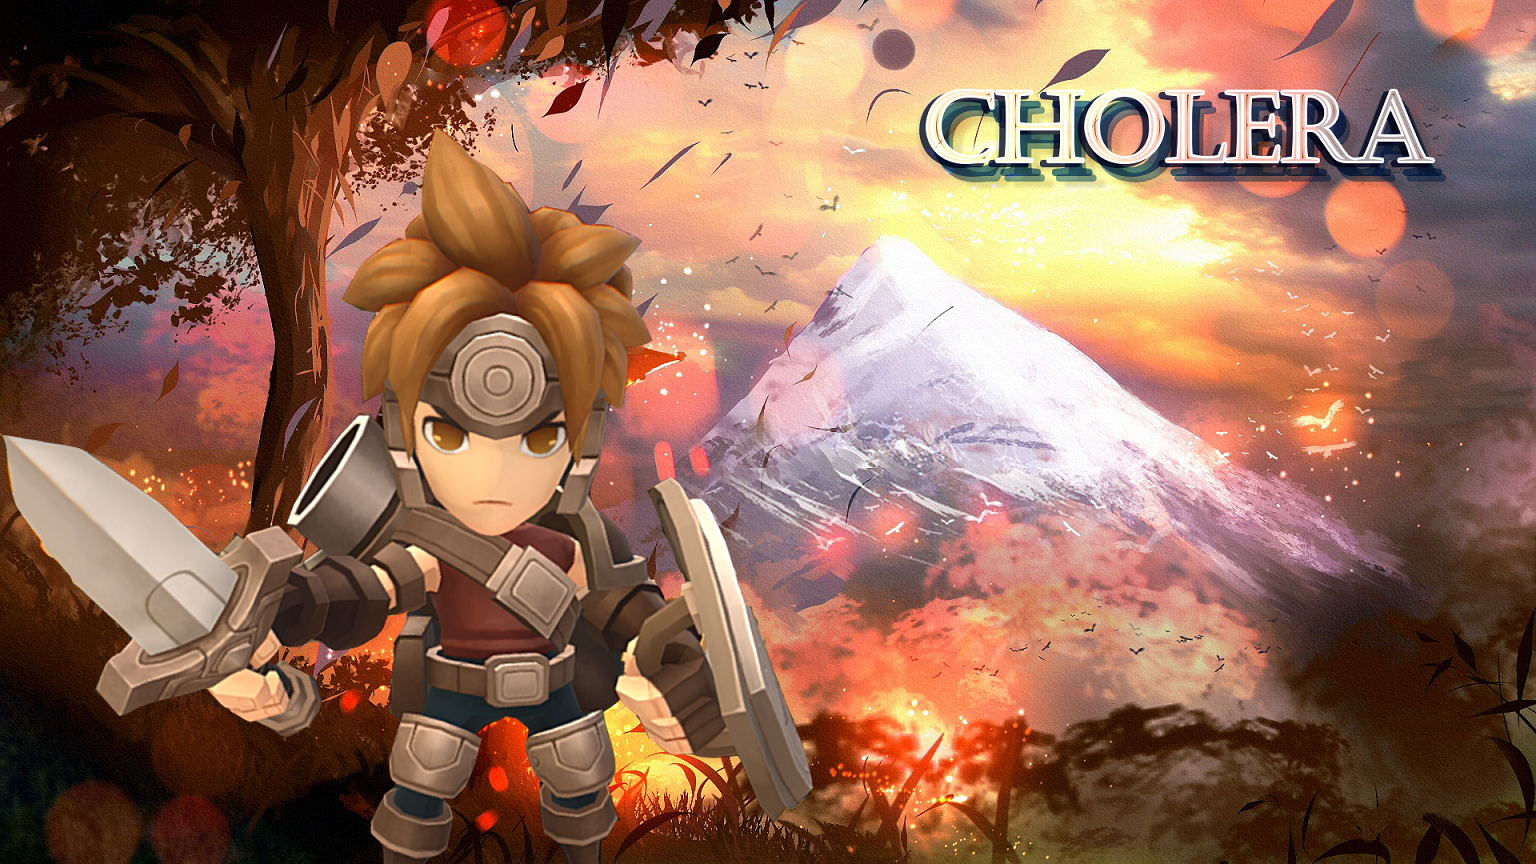
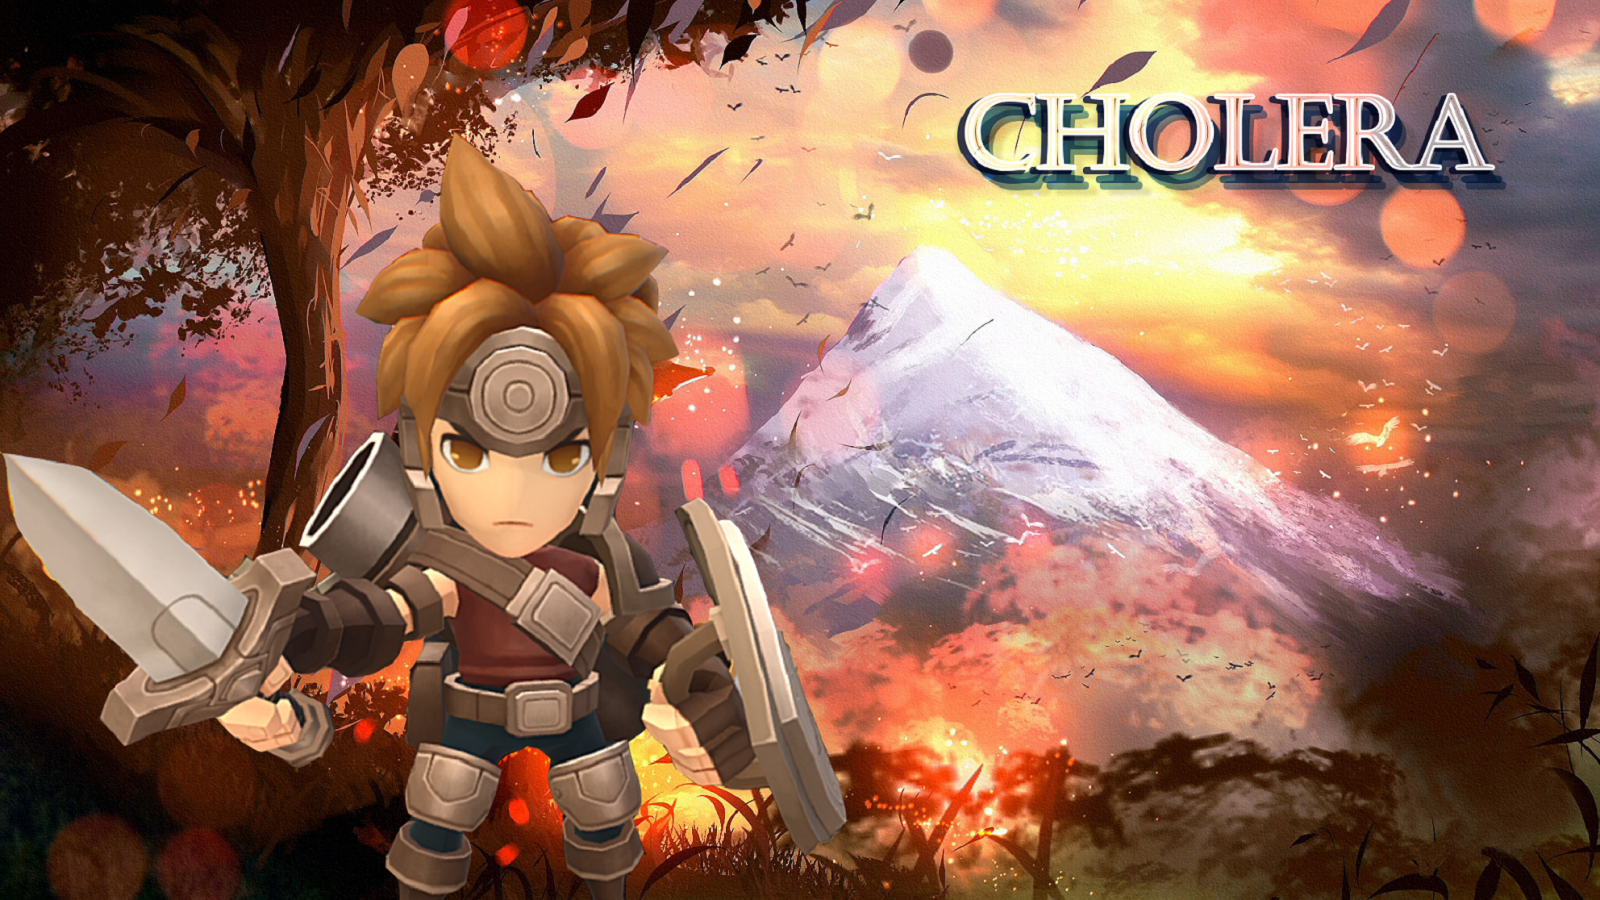
改了一下窗口名和分辨率，等高大佬的美图。。

diff --git a/src/main/java/gamesource/Interface/StartInterface.java b/src/main/java/gamesource/Interface/StartInterface.java
@@ -14,12 +14,12 @@ import static gamesource.initialinterface.Main_test.start;
 
 public class StartInterface {
     public static void main(String[] arcs) throws IOException, ContextActivationException, InterruptedException {
-        int screenWidth = java.awt.Toolkit.getDefaultToolkit().getScreenSize().width;
-        int screenHeight=java.awt.Toolkit.getDefaultToolkit().getScreenSize().height;
-        System.out.println(screenHeight + " " + screenWidth);
+        //int screenWidth = java.awt.Toolkit.getDefaultToolkit().getScreenSize().width;
+        //int screenHeight=java.awt.Toolkit.getDefaultToolkit().getScreenSize().height;
+        //System.out.println(screenHeight + " " + screenWidth);
         int num = 0;
         RenderWindow window = new RenderWindow();
-        window.create(new VideoMode(1536,864), "Cholera");
+        window.create(new VideoMode(1600,900), "Cholera");
         window.setMouseCursorVisible(true);
         window.setFramerateLimit(30);
 
@@ -117,9 +117,6 @@ public class StartInterface {
                     {
                         start_button.setTexture(texture_start_pressed);
                         move.play();
-                        start();
-                        music.pause();
-                        window.close();
                     }
                     if(click_compute(texture_white_released, white_button))
                     {
@@ -137,6 +134,9 @@ public class StartInterface {
                     if(click_compute(texture_start_released, start_button))
                     {
                         start_button.setTexture(texture_start_released);
+                        start();
+                        music.pause();
+                        window.close();
                     }
                     if(click_compute(texture_white_released, white_button))
                     {

diff --git a/src/main/java/gamesource/initialinterface/Test.java b/src/main/java/gamesource/initialinterface/Test.java
@@ -61,7 +61,7 @@ public class Test {
         final int screenHeight = 900;
         final int screenWidth = 1600;
 
-        window.create(new VideoMode(screenWidth, screenHeight), "UI test!");
+        window.create(new VideoMode(screenWidth, screenHeight), "Cholera");
         window.setMouseCursorVisible(true);
 
         window.setFramerateLimit(30);

diff --git a/src/main/java/gamesource/State/mapState/ThirdWorldMap.java b/src/main/java/gamesource/State/mapState/ThirdWorldMap.java
@@ -31,7 +31,7 @@ public class ThirdWorldMap  extends BaseAppState {
 
         physics=bullet.getPhysicsSpace();
 
-        Scene=app.getAssetManager().loadModel("Map/scene.j3o");
+        Scene=app.getAssetManager().loadModel("Map/Scene.j3o");
 
         Scene.setShadowMode(RenderQueue.ShadowMode.CastAndReceive);
         Scene.scale(0.65f);
